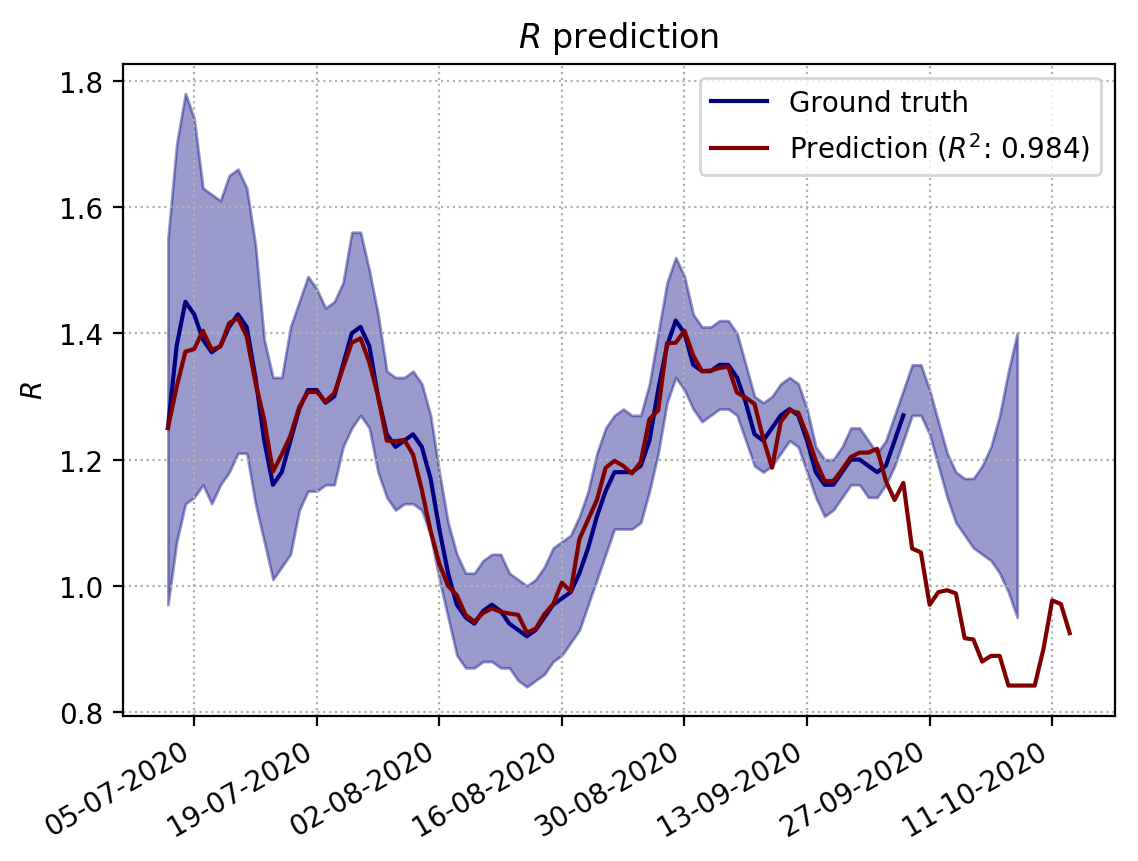
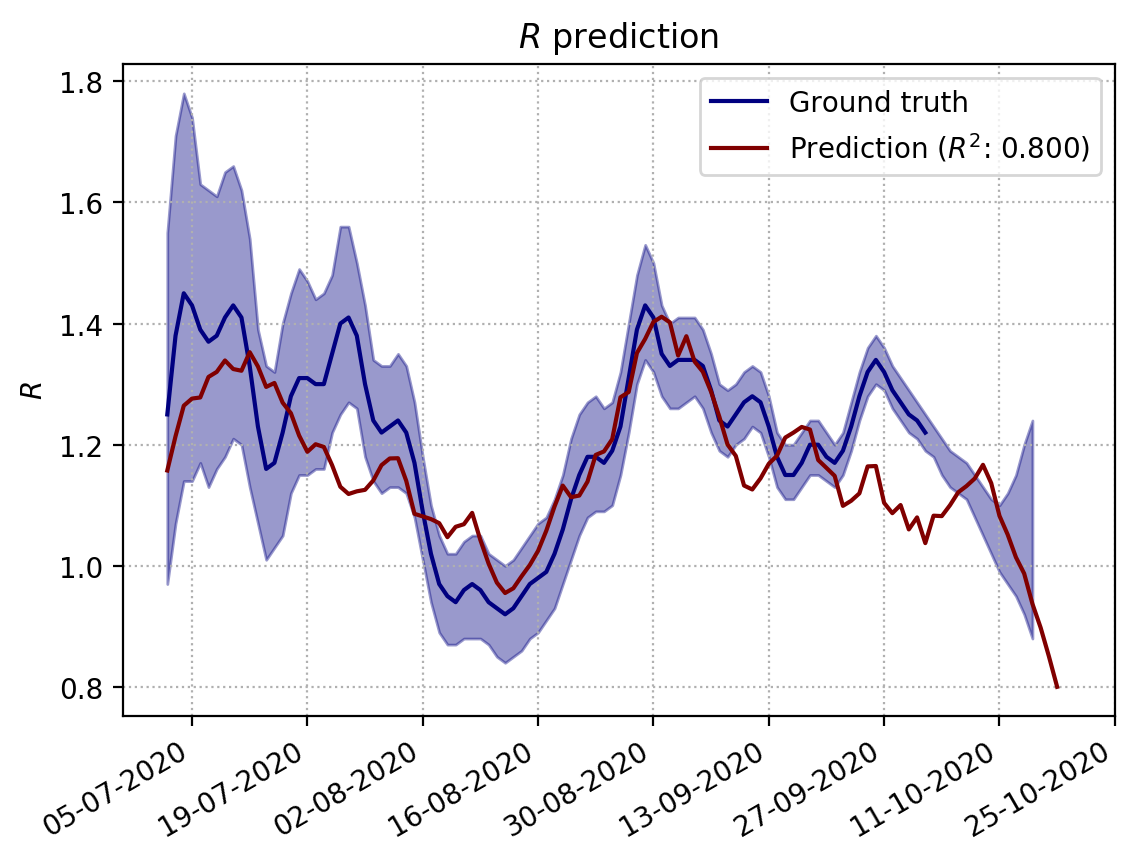
Updated R predictions with mobility data

diff --git a/model_coronavirus_supression.py b/model_coronavirus_supression.py
@@ -174,7 +174,10 @@ def load_mobility_data(smooth = False, smoothsize = 7):
 
 		#remove downloaded files
 		shutil.rmtree(unziploc)
-		os.remove(google_mobility_fname_zip)
+		#also remove zip file
+		# os.remove(google_mobility_fname_zip)
+	else:
+		google_mobility_fname = dataloc + 'google_' + google_mobility_fname
 
 	google_col_rename = {
 		'retail_and_recreation_percent_change_from_baseline': 'retail_recreation',
@@ -1030,12 +1033,12 @@ def estimate_recent_R():
 
 		#apply ridge regression, see here for more info:
 		#https://scikit-learn.org/stable/modules/generated/sklearn.linear_model.Ridge.html#sklearn.linear_model.Ridge
-		# clf = Ridge(alpha = 1.)
+		clf = Ridge(alpha = 1.)
 		# clf = Lasso()
 		#apply adaboost regression, see here for more info:
 		#https://scikit-learn.org/stable/modules/generated/sklearn.ensemble.AdaBoostRegressor.html#sklearn.ensemble.AdaBoostRegressor
 		# clf = AdaBoostRegressor()
-		clf = RandomForestRegressor()
+		# clf = RandomForestRegressor()
 		clf.fit(X_train, Y_train, sample_weight = weight_train)
 		# clf.fit(X_train, Y_train)
 
@@ -1281,13 +1284,13 @@ def estimate_recent_prevalence():
 def main():
 	# government_response_results_simple()
 
-	# estimate_recent_R()
+	estimate_recent_R()
 
 	# estimate_recent_prevalence()
 
 	# plot_prevalence_R()
 
-	plot_mobility()
+	# plot_mobility()
 
 	# plot_daily_results()
 
